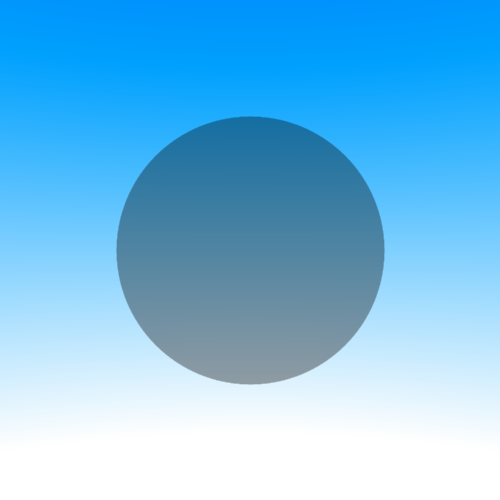
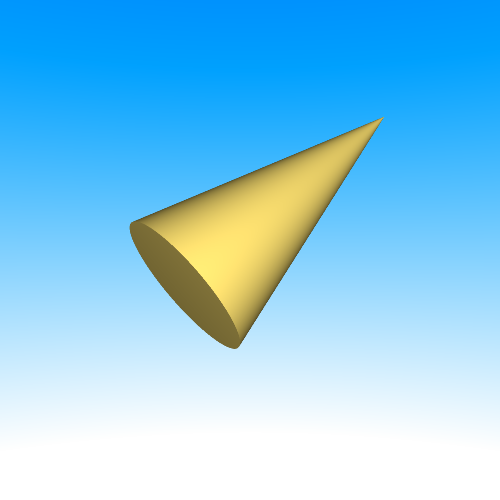
Add more sample renders

Changed region(s): [[0.21, 0.21, 0.78, 0.78]]

diff --git a/README.md b/README.md
@@ -4,6 +4,19 @@ This was originally going to be my submission for the final project, but due to 
 
 ---
 
+## Features
+* Primitives: Cone, Cylinder, Cube, Sphere, Plane
+* Triangle meshes (OBJ format), with support for vertex normals and texture coordinates
+* Reflection (glossy and non-glossy)
+* Refraction (glossy and non-glossy)
+* Texture mapping (planar, spherical, cylindrical, and custom meshes)
+* Adaptive supersampling
+* Animation (via Lua scripting and ffmpeg)
+* Mesh rendering acceleration
+    * Rectangular bounding volumes
+    * 3D grid-based acceleration
+* Multithreaded rendering
+
 ## Build instructions
 We use **premake4** as our cross-platform build system. First you will need to build all
 the static libraries that the ray tracer depend on. To build the libraries, open up a
@@ -19,19 +32,19 @@ Next we can build the actual raytracing program:
 /raytracer/src$ premake4 gmake
 /raytracer/src$ make
 ```
-## Features
 
-* Primitives: Cone, Cylinder, Cube, Sphere, Plane
-* Triangle meshes (OBJ format), with support for vertex normals and texture coordinates
-* Reflection (glossy and non-glossy)
-* Refraction (glossy and non-glossy)
-* Texture mapping (planar, spherical, cylindrical, and custom mesh)
-* Adaptive supersampling
-* Animation (via Lua scripting and ffmpeg)
-* Mesh rendering acceleration
-    * Rectangular bounding volumes
-    * 3D grid-based acceleration
-* Multithreading
+## Usage
+Invoking the raytracer is simple. Simply execute the `raytrace` binary, passing it the path to the Lua scene file:
+```sh
+/raytracer/src$ ./raytrace path/to/scene.lua
+```
+
+## Assets
+The [`src/Assets`](src/Assets) directory contains some scene definitions, meshes, and textures used to produce the sample renders below. Some of the scenes were from the original CS 488 skeleton code.
 
 ## Sample renders
-`// TODO`
+Some sample renders can be found in [`out/`](src/out/) and [`showcase/`](src/showcase/).
+
+| ![Primitives](src/out/primitives.png)  | ![Earth in a box](src/out/plane.png) | ![Wooden Car](src/out/car.png) |
+|:---:|:---:|:---:|
+|Primitives|Earth in a box|Wooden car|
